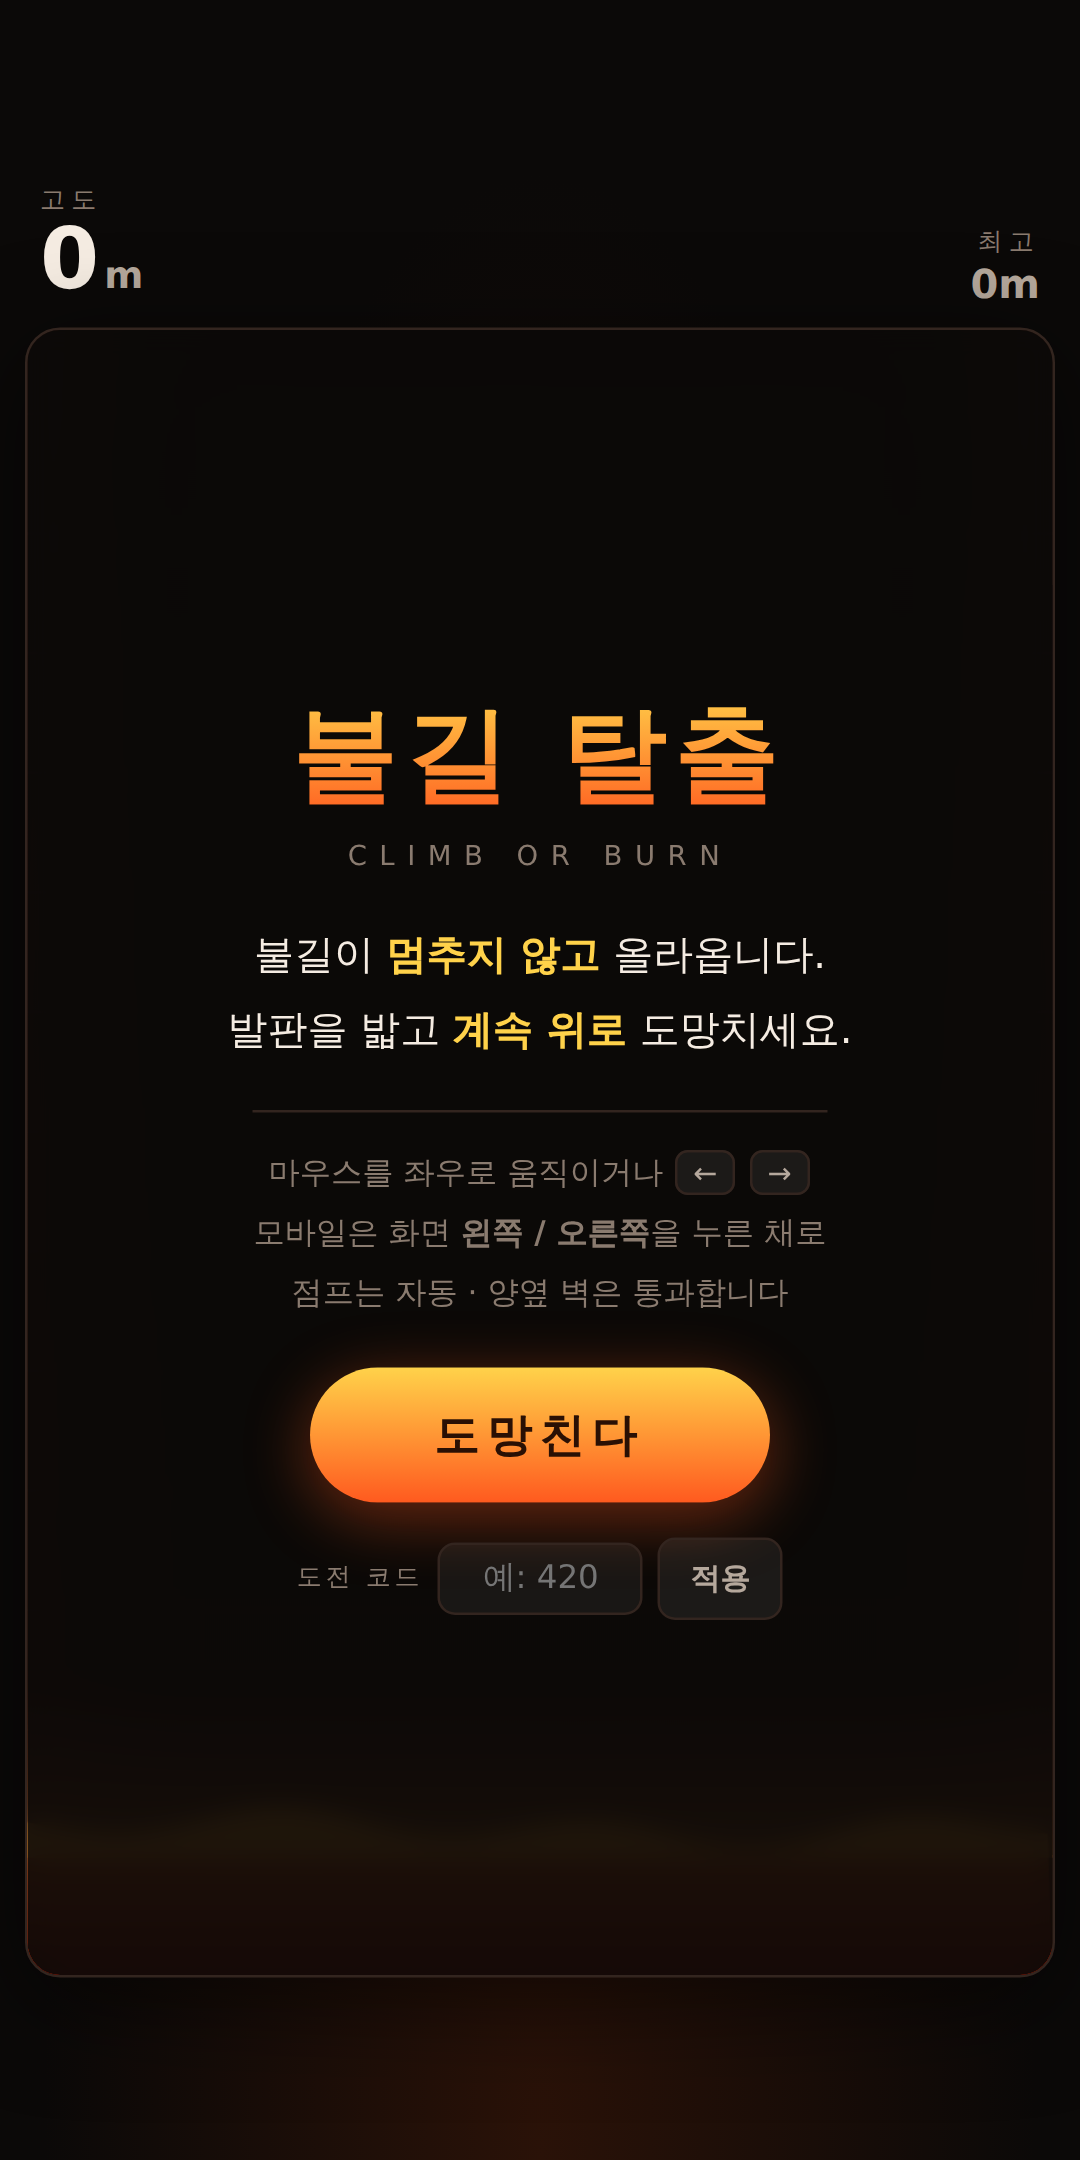
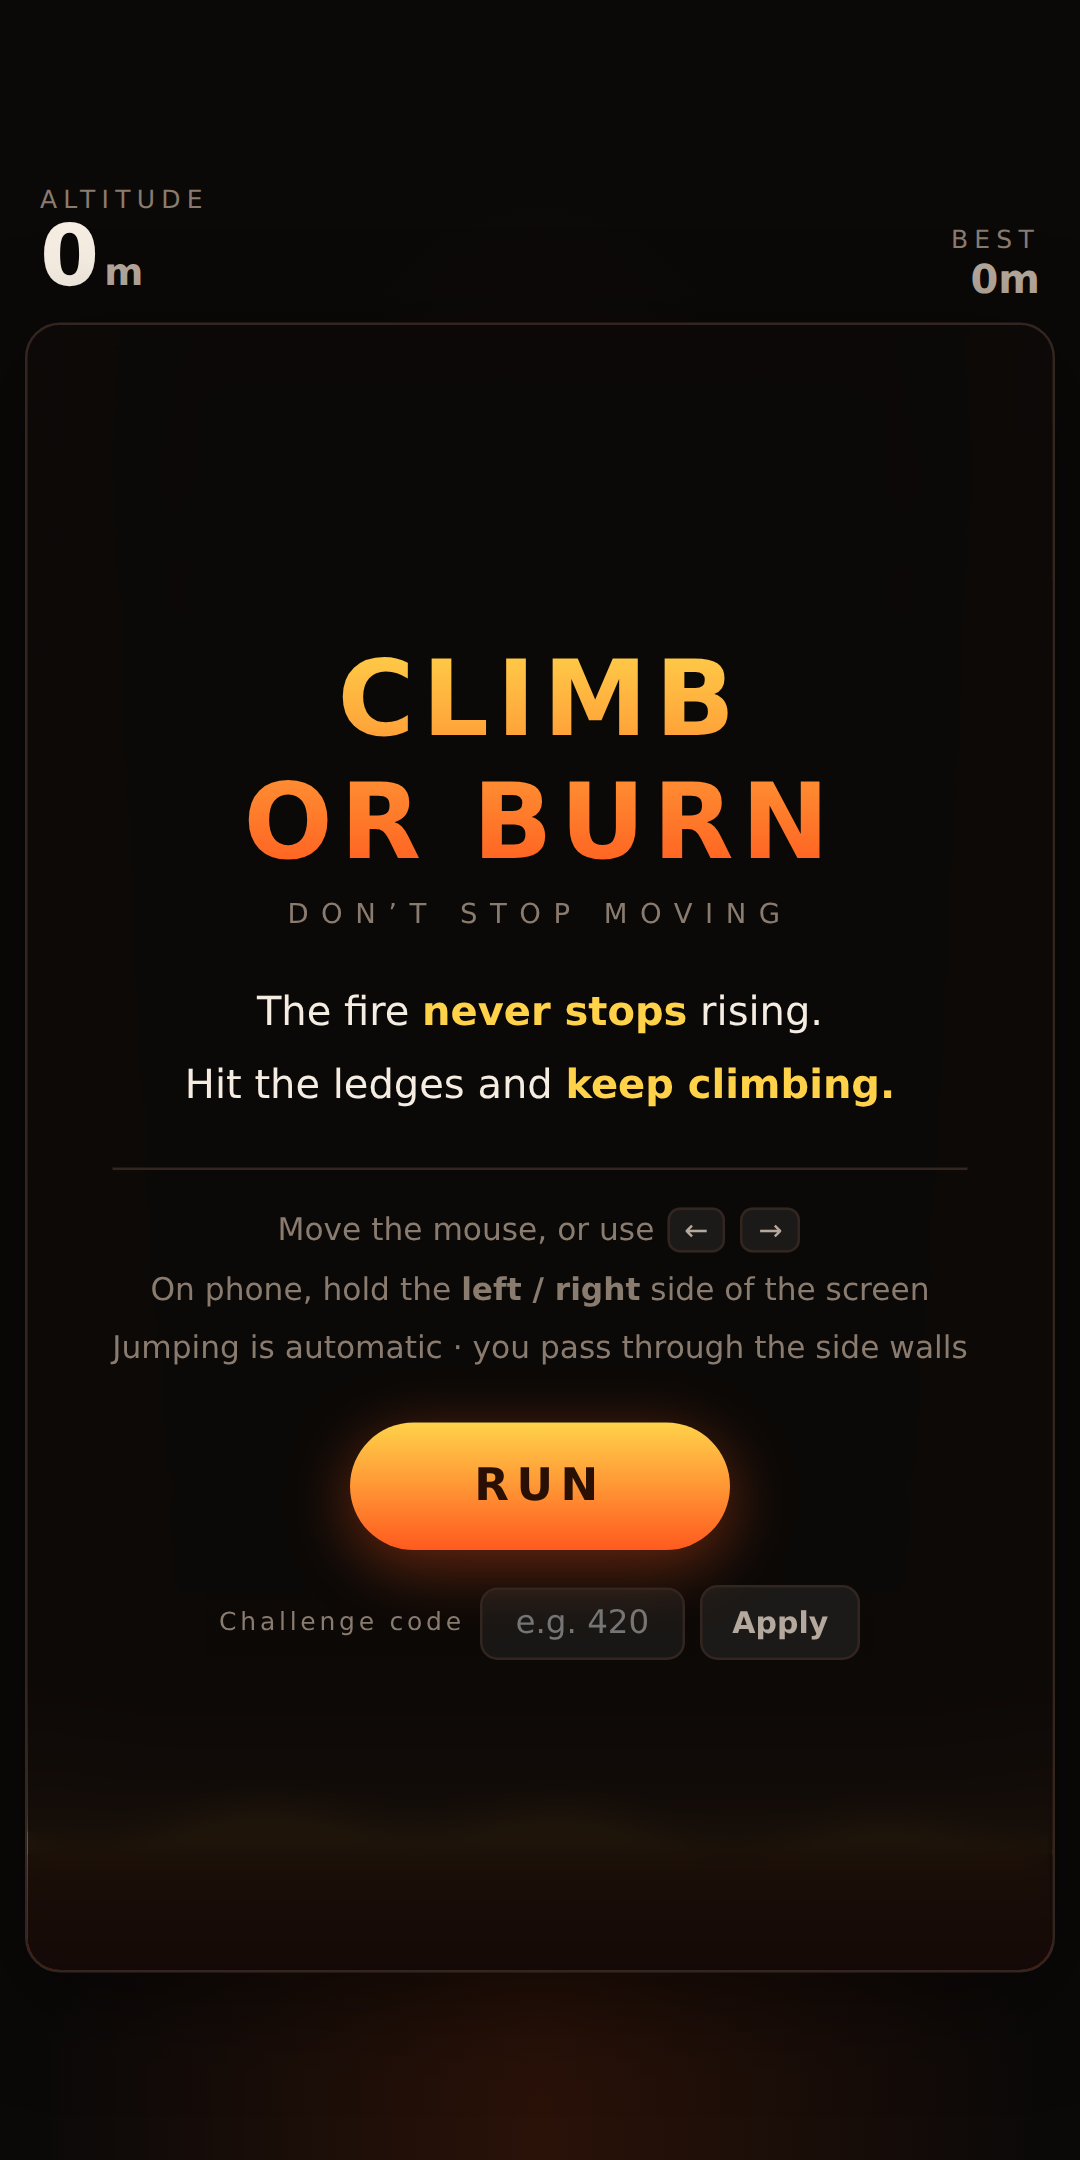
불길 탈출을 영어판 Climb or Burn으로 전환
영어권 배포로 방향을 정해 게임 UI를 전부 영어로 바꿨다.

- 화면에 보이는 문구 39곳 치환 (HUD, 시작 화면, 조작 안내,
  게임오버 문구, 랭킹, 공유 텍스트, 사망 사유, 도전 모드 결과)
  한국어 주석은 저장소 관례대로 유지
- 폰트 스택을 영어 우선으로 교체
- 앱 이름을 Climb or Burn으로 확정하고 세 곳을 일치시킴
  (게임 제목 / listing.md / docs/privacy.html) — 어긋나면 심사에서 걸린다
- 스크린샷 4장을 영어판으로 재캡처, 그래픽 이미지도 영어 제목으로 재제작
- listing.md를 영어 기본으로 재작성. 게임이 영어뿐이므로 한국어
  등록정보는 추가하지 않는 이유를 적어 둠

헤드리스 Chromium으로 실제 플레이해 검증: 콘솔 에러 0건, 게임오버 도달,
화면에 남은 한글 없음. 프레젠테이션·개인정보처리방침도 함께 재검증.

Claude-Session: https://claude.ai/code/session_01EYTv2WY6kpnKT8x9ekqmeZ

diff --git a/docs/firechase.html b/docs/firechase.html
@@ -3,7 +3,7 @@
 <head>
 <meta charset="UTF-8">
 <meta name="viewport" content="width=device-width, initial-scale=1.0, user-scalable=no">
-<title>불길 탈출 — 멈추면 타 죽는다</title>
+<title>Climb or Burn</title>
 </head>
 <body>
 <style>
@@ -27,7 +27,7 @@
   * { margin: 0; padding: 0; box-sizing: border-box; -webkit-tap-highlight-color: transparent; }
   html, body { height: 100%; overflow: hidden; }
   body {
-    font-family: 'Apple SD Gothic Neo', 'Noto Sans KR', 'Malgun Gothic', system-ui, sans-serif;
+    font-family: -apple-system, BlinkMacSystemFont, 'Segoe UI', Roboto, system-ui, sans-serif;
     background: radial-gradient(ellipse at 50% 100%, #2a1208 0%, var(--soot) 65%);
     color: var(--text);
     display: flex; align-items: center; justify-content: center;
@@ -207,12 +207,12 @@
 <div id="stage">
   <div id="hud">
     <div>
-      <div class="stat-label">고도</div>
+      <div class="stat-label">ALTITUDE</div>
       <div id="alt-value">0<span class="unit">m</span></div>
     </div>
-    <div id="chal-chip" class="is-hidden">도전 <b></b></div>
+    <div id="chal-chip" class="is-hidden">RIVAL <b></b></div>
     <div id="best-box">
-      <div class="stat-label">최고</div>
+      <div class="stat-label">BEST</div>
       <div id="best-value">0m</div>
     </div>
   </div>
@@ -220,27 +220,27 @@
   <div id="shaft">
     <canvas id="game-canvas"></canvas>
     <div id="heat"></div>
-    <div id="pass-banner">기록 추월!</div>
+    <div id="pass-banner">RECORD BEATEN!</div>
 
     <div class="overlay" id="start-overlay">
       <div>
-        <div class="title-main">불길 탈출</div>
-        <div class="title-sub">climb or burn</div>
+        <div class="title-main">CLIMB OR BURN</div>
+        <div class="title-sub">don’t stop moving</div>
       </div>
       <div class="pitch">
-        불길이 <b>멈추지 않고</b> 올라옵니다.<br>
-        발판을 밟고 <b>계속 위로</b> 도망치세요.
+        The fire <b>never stops</b> rising.<br>
+        Hit the ledges and <b>keep climbing.</b>
       </div>
       <div class="controls">
-        마우스를 좌우로 움직이거나 <kbd>←</kbd> <kbd>→</kbd><br>
-        모바일은 화면 <b>왼쪽 / 오른쪽</b>을 누른 채로<br>
-        점프는 자동 · 양옆 벽은 통과합니다
+        Move the mouse, or use <kbd>&larr;</kbd> <kbd>&rarr;</kbd><br>
+        On phone, hold the <b>left / right</b> side of the screen<br>
+        Jumping is automatic &middot; you pass through the side walls
       </div>
-      <button class="btn" id="start-btn">도망친다</button>
+      <button class="btn" id="start-btn">RUN</button>
       <div class="code-row">
-        <label for="code-input">도전 코드</label>
-        <input id="code-input" inputmode="numeric" maxlength="6" placeholder="예: 420" autocomplete="off">
-        <button id="code-btn" type="button">적용</button>
+        <label for="code-input">Challenge code</label>
+        <input id="code-input" inputmode="numeric" maxlength="6" placeholder="e.g. 420" autocomplete="off">
+        <button id="code-btn" type="button">Apply</button>
       </div>
     </div>
 
@@ -251,14 +251,14 @@
       <div id="challenge-result" class="is-hidden"></div>
 
       <div class="name-row">
-        <label for="name-input">이름</label>
-        <input id="name-input" maxlength="8" placeholder="이름 입력" autocomplete="off" spellcheck="false">
+        <label for="name-input">Name</label>
+        <input id="name-input" maxlength="8" placeholder="Your name" autocomplete="off" spellcheck="false">
       </div>
       <div id="rank-board"></div>
 
       <div class="btn-row">
-        <button class="btn secondary" id="share-btn">기록 공유</button>
-        <button class="btn" id="retry-btn">다시</button>
+        <button class="btn secondary" id="share-btn">Share run</button>
+        <button class="btn" id="retry-btn">Retry</button>
       </div>
       <div id="share-note"></div>
       <input id="share-fallback" class="is-hidden" readonly>
@@ -319,7 +319,7 @@
       if (!Array.isArray(raw)) return [];
       return raw
         .filter(r => r && typeof r.m === 'number' && isFinite(r.m))
-        .map(r => ({ n: String(r.n || '나').slice(0, 8), m: Math.max(0, Math.round(r.m)), t: r.t || 0 }))
+        .map(r => ({ n: String(r.n || 'You').slice(0, 8), m: Math.max(0, Math.round(r.m)), t: r.t || 0 }))
         .sort((a, b) => b.m - a.m)
         .slice(0, RANK_MAX);
     } catch (e) { return []; }
@@ -338,7 +338,7 @@
     if (!ranks.length) {
       const empty = document.createElement('div');
       empty.className = 'rank-empty';
-      empty.textContent = '아직 기록이 없습니다.';
+      empty.textContent = 'No runs yet.';
       board.appendChild(empty);
       return;
     }
@@ -347,7 +347,7 @@
       row.className = 'rank-row' + (r === myRankRow ? ' me' : '');
       const pos = document.createElement('span');
       pos.className = 'rank-pos';
-      pos.textContent = (i + 1) + '위';
+      pos.textContent = '#' + (i + 1);
       const name = document.createElement('span');
       name.className = 'rank-name';
       name.textContent = r.n;               // 이름은 항상 텍스트로만 — 주입 방지
@@ -362,7 +362,7 @@
   }
 
   function recordRank(m) {
-    const entry = { n: loadName() || '나', m, t: Date.now() };
+    const entry = { n: loadName() || 'You', m, t: Date.now() };
     ranks.push(entry);
     ranks.sort((a, b) => b.m - a.m);
     ranks = ranks.slice(0, RANK_MAX);
@@ -415,25 +415,25 @@
   async function shareResult() {
     const url = challengeUrl(altM);
     // 링크가 막힌 곳에서도 겨룰 수 있도록 도전 코드를 함께 실어 보낸다
-    const text = '🔥 불길 탈출 — ' + altM + 'm까지 도망쳤습니다. 이길 수 있나요?\n도전 코드: ' + altM;
+    const text = '🔥 Climb or Burn — I got to ' + altM + 'm. Can you beat it?\nChallenge code: ' + altM;
     const full = url ? text + '\n' + url : text;
     if (navigator.share) {
       try {
-        await navigator.share(url ? { title: '불길 탈출', text, url } : { title: '불길 탈출', text });
-        return note('공유했습니다');
+        await navigator.share(url ? { title: 'Climb or Burn', text, url } : { title: 'Climb or Burn', text });
+        return note('Shared');
       } catch (e) {
         if (e && e.name === 'AbortError') return;   // 사용자가 취소한 것은 실패가 아니다
       }
     }
     try {
       await navigator.clipboard.writeText(full);
-      return note('도전 링크를 복사했습니다');
+      return note('Challenge link copied');
     } catch (e) { /* 아래 수동 복사로 넘어간다 */ }
     const fb = document.getElementById('share-fallback');
     fb.value = full;
     fb.classList.remove('is-hidden');
     fb.focus(); fb.select();
-    note('아래 링크를 복사해 보내세요');
+    note('Copy the link below and send it');
   }
 
   // ── 사운드 ──────────────────────────────────────────────
@@ -573,12 +573,12 @@
   }
 
   function rankFor(m) {
-    if (m < 60)   return '연기도 못 벗어났습니다.';
-    if (m < 200)  return '아직 발끝이 뜨겁습니다.';
-    if (m < 450)  return '제법 올라왔습니다.';
-    if (m < 800)  return '불길이 겨우 따라옵니다.';
-    if (m < 1400) return '연기 위로 솟았습니다.';
-    return '불길이 당신을 포기했습니다.';
+    if (m < 60)   return 'You never cleared the smoke.';
+    if (m < 200)  return 'Your feet are still burning.';
+    if (m < 450)  return 'That is a decent climb.';
+    if (m < 800)  return 'The fire is barely keeping up.';
+    if (m < 1400) return 'You broke above the smoke.';
+    return 'The fire gave up on you.';
   }
 
   function endGame(cause) {
@@ -589,14 +589,14 @@
     document.getElementById('death-cause').textContent = cause;
     document.getElementById('final-alt').innerHTML = altM + '<span class="unit">m</span>';
     document.getElementById('final-rank').textContent = rankFor(altM);
-    document.getElementById('final-best').textContent = '이 기기 최고 ' + bestM + 'm';
+    document.getElementById('final-best').textContent = 'Best on this device \u00b7 ' + bestM + 'm';
 
     const cr = document.getElementById('challenge-result');
     if (challengeM > 0) {
       const won = altM > challengeM;
       cr.textContent = won
-        ? '도전 성공 — 상대 기록 ' + challengeM + 'm를 넘었습니다'
-        : '도전 실패 — 상대 기록까지 ' + (challengeM - altM) + 'm 남았습니다';
+        ? 'Challenge cleared \u2014 you passed ' + challengeM + 'm'
+        : 'Challenge failed \u2014 ' + (challengeM - altM) + 'm short';
       cr.className = won ? 'win' : 'lose';
     } else cr.className = 'is-hidden';
 
@@ -735,8 +735,8 @@
     if (lavaShake > 0) lavaShake = Math.max(0, lavaShake - dt * 40);
 
     // 죽음
-    if (player.y + PLAYER_R >= lavaY) { endGame('불길에 삼켜짐'); return; }
-    if (player.y - camY > H + 80) { endGame('추락'); return; }
+    if (player.y + PLAYER_R >= lavaY) { endGame('SWALLOWED BY FIRE'); return; }
+    if (player.y - camY > H + 80) { endGame('FELL'); return; }
   }
 
   // ── 그리기 ──────────────────────────────────────────────
@@ -875,7 +875,7 @@
         ctx.font = '700 11px system-ui, sans-serif';
         ctx.textAlign = 'right'; ctx.textBaseline = 'bottom';
         ctx.fillStyle = challengeBeaten ? '#8ee8a4' : '#ffd24a';
-        ctx.fillText((challengeBeaten ? '추월함 ' : '도전 ') + challengeM + 'm', W - 8, cy - 4);
+        ctx.fillText((challengeBeaten ? 'PASSED ' : 'RIVAL ') + challengeM + 'm', W - 8, cy - 4);
         ctx.restore();
       }
     }
@@ -944,7 +944,7 @@
   nameInput.addEventListener('input', () => {
     const v = nameInput.value.trim().slice(0, 8);
     saveName(v);
-    if (myRankRow) { myRankRow.n = v || '나'; saveRanks(); renderRanks(); }
+    if (myRankRow) { myRankRow.n = v || 'You'; saveRanks(); renderRanks(); }
   });
 
   document.getElementById('share-btn').addEventListener('click', shareResult);

diff --git a/docs/privacy.html b/docs/privacy.html
@@ -97,9 +97,9 @@
   <h2>1. Applications covered</h2>
   <p>This policy applies to the following applications:</p>
   <ul>
-    <li><strong>Fire Escape</strong> (불길 탈출) — an arcade game</li>
-    <li><strong>Cosmos Merge</strong> (우주 합치기) — a puzzle game</li>
-    <li><strong>Som Currency</strong> (솜 환율) — a currency converter</li>
+    <li><strong>Climb or Burn</strong> — an arcade game</li>
+    <li><strong>Cosmos Merge</strong> — a puzzle game</li>
+    <li><strong>Som Currency</strong> — a currency converter</li>
   </ul>
   <p>Our acupuncture clinic portal is <strong>not</strong> covered by this policy and is governed by a separate
      agreement and privacy notice.</p>
@@ -123,7 +123,7 @@
     <table>
       <thead><tr><th>App</th><th>Stored locally</th></tr></thead>
       <tbody>
-        <tr><td>Fire Escape</td><td>High score, challenge-mode progress, sound preference</td></tr>
+        <tr><td>Climb or Burn</td><td>High score, challenge-mode progress, sound preference</td></tr>
         <tr><td>Cosmos Merge</td><td>High score, sound preference</td></tr>
         <tr><td>Som Currency</td><td>Base currency, entered amount, selected currency list, recently used currencies, theme preference</td></tr>
       </tbody>
@@ -223,9 +223,9 @@
 
   <h2>1. 적용 대상 앱</h2>
   <ul>
-    <li><strong>불길 탈출</strong> — 아케이드 게임</li>
-    <li><strong>우주 합치기</strong> — 퍼즐 게임</li>
-    <li><strong>솜 환율</strong> — 환율 변환기</li>
+    <li><strong>Climb or Burn</strong> (불길 탈출) — 아케이드 게임</li>
+    <li><strong>Cosmos Merge</strong> (우주 합치기) — 퍼즐 게임</li>
+    <li><strong>Som Currency</strong> (솜 환율) — 환율 변환기</li>
   </ul>
   <p>한의원 포털은 본 방침의 적용 대상이 <strong>아니며</strong>, 별도의 계약 및 개인정보 고지가 적용됩니다.</p>
 
@@ -248,7 +248,7 @@
     <table>
       <thead><tr><th>앱</th><th>기기에 저장되는 항목</th></tr></thead>
       <tbody>
-        <tr><td>불길 탈출</td><td>최고 점수, 도전 모드 진행 상태, 소리 설정</td></tr>
+        <tr><td>Climb or Burn</td><td>최고 점수, 도전 모드 진행 상태, 소리 설정</td></tr>
         <tr><td>우주 합치기</td><td>최고 점수, 소리 설정</td></tr>
         <tr><td>솜 환율</td><td>기준 통화, 입력 금액, 선택한 통화 목록, 최근 사용 통화, 테마 설정</td></tr>
       </tbody>

diff --git a/docs/playstore-25.html b/docs/playstore-25.html
@@ -248,7 +248,7 @@
         <p><strong>돈이 가장 크게 걸린 쪽.</strong> 환자 문진 → 한의사 대시보드까지 화면 16개. 코드 30,186줄. 한의원에 <strong>월 구독</strong>으로 파는 B2B 모델입니다.</p>
       </div>
       <div class="card">
-        <h3>③ 불길 탈출</h3>
+        <h3>③ Climb or Burn</h3>
         <p>불길에 쫓기며 올라가는 수직 아케이드. 랭킹·기록 공유·도전 모드까지 들어가 있습니다. 한 판 30초~1분.</p>
       </div>
       <div class="card">
@@ -608,7 +608,7 @@
     <p style="margin-top:26px;font-size:13px;color:var(--ink3)">만들어 놓은 것들, 직접 눌러 보세요</p>
     <div class="links">
       <a href="./currency-app-v1.html">솜 환율 앱</a>
-      <a href="./firechase.html">불길 탈출</a>
+      <a href="./firechase.html">Climb or Burn</a>
       <a href="./cosmos-merge.html">우주 합치기</a>
       <a href="./pattern-finder-preview.html">한의원 문진</a>
       <a href="./index.html">한의원 포털</a>
